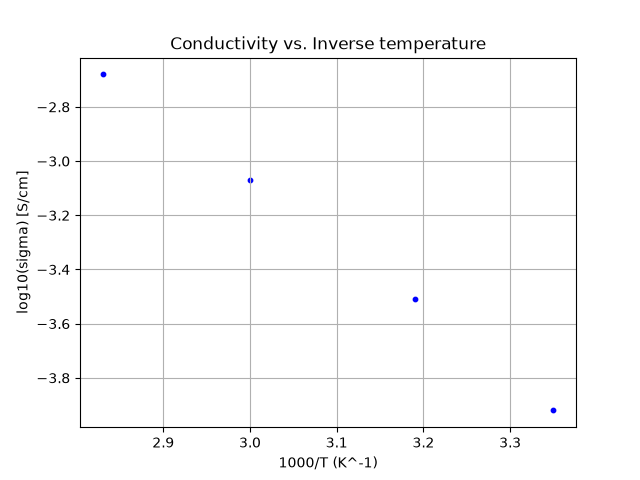
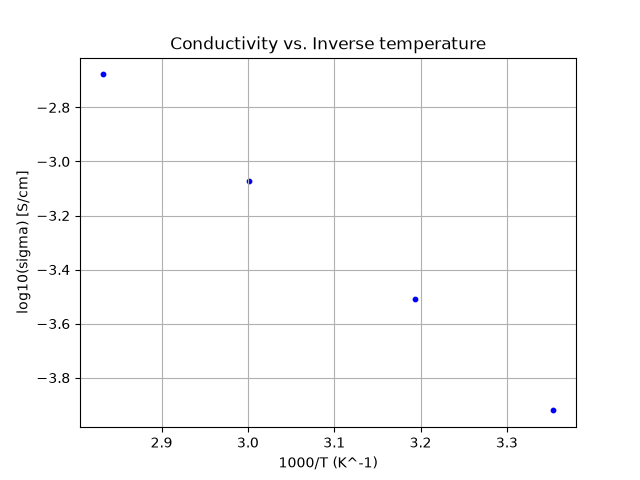
убрал округление, изменил с учетом этого pytest

diff --git a/Build0/test_cleaning.py b/Build0/test_cleaning.py
@@ -1,6 +1,7 @@
 from cleaning import parse_float, to_arrhenius_point
+import pytest
 def test_cleaning():
     assert parse_float('N/A') == None
     assert parse_float('0') == 0
     assert parse_float('1.40E-2') == 0.014
-    assert to_arrhenius_point(25, 0.012) == (3.35, -1.92)
+    assert to_arrhenius_point(25, 0.012) == pytest.approx((3.35, -1.92), abs = 1e-2)

diff --git a/Build0/cleaning.py b/Build0/cleaning.py
@@ -19,8 +19,8 @@ def load_clean_data(a):
     return clean_rows
 
 def to_arrhenius_point(temp_c, sigma):
-    temp_c = round(1000/(temp_c+273.15), 2)
-    sigma = round(math.log10(sigma), 2)
+    temp_c = (1000/(temp_c+273.15))
+    sigma = (math.log10(sigma))
     return (temp_c, sigma)
 
 
